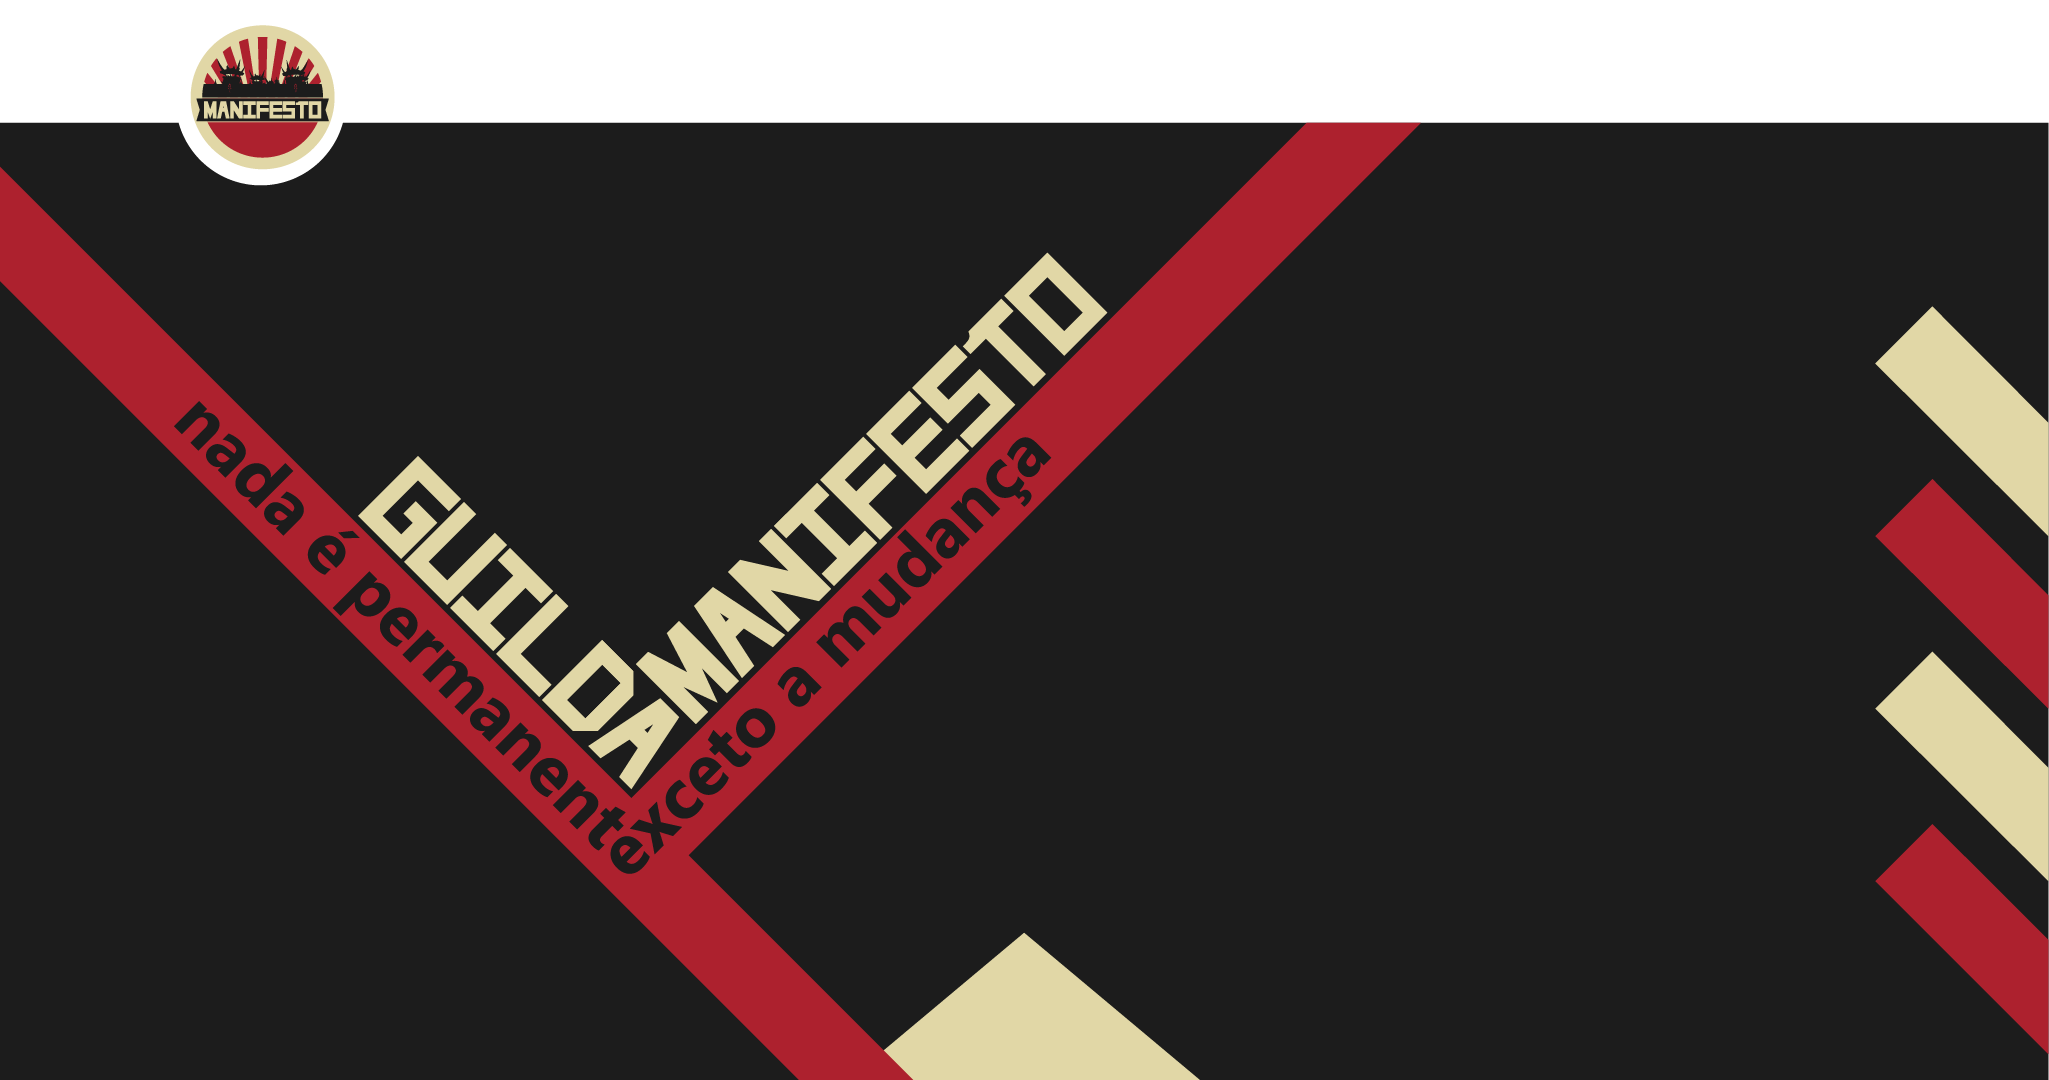
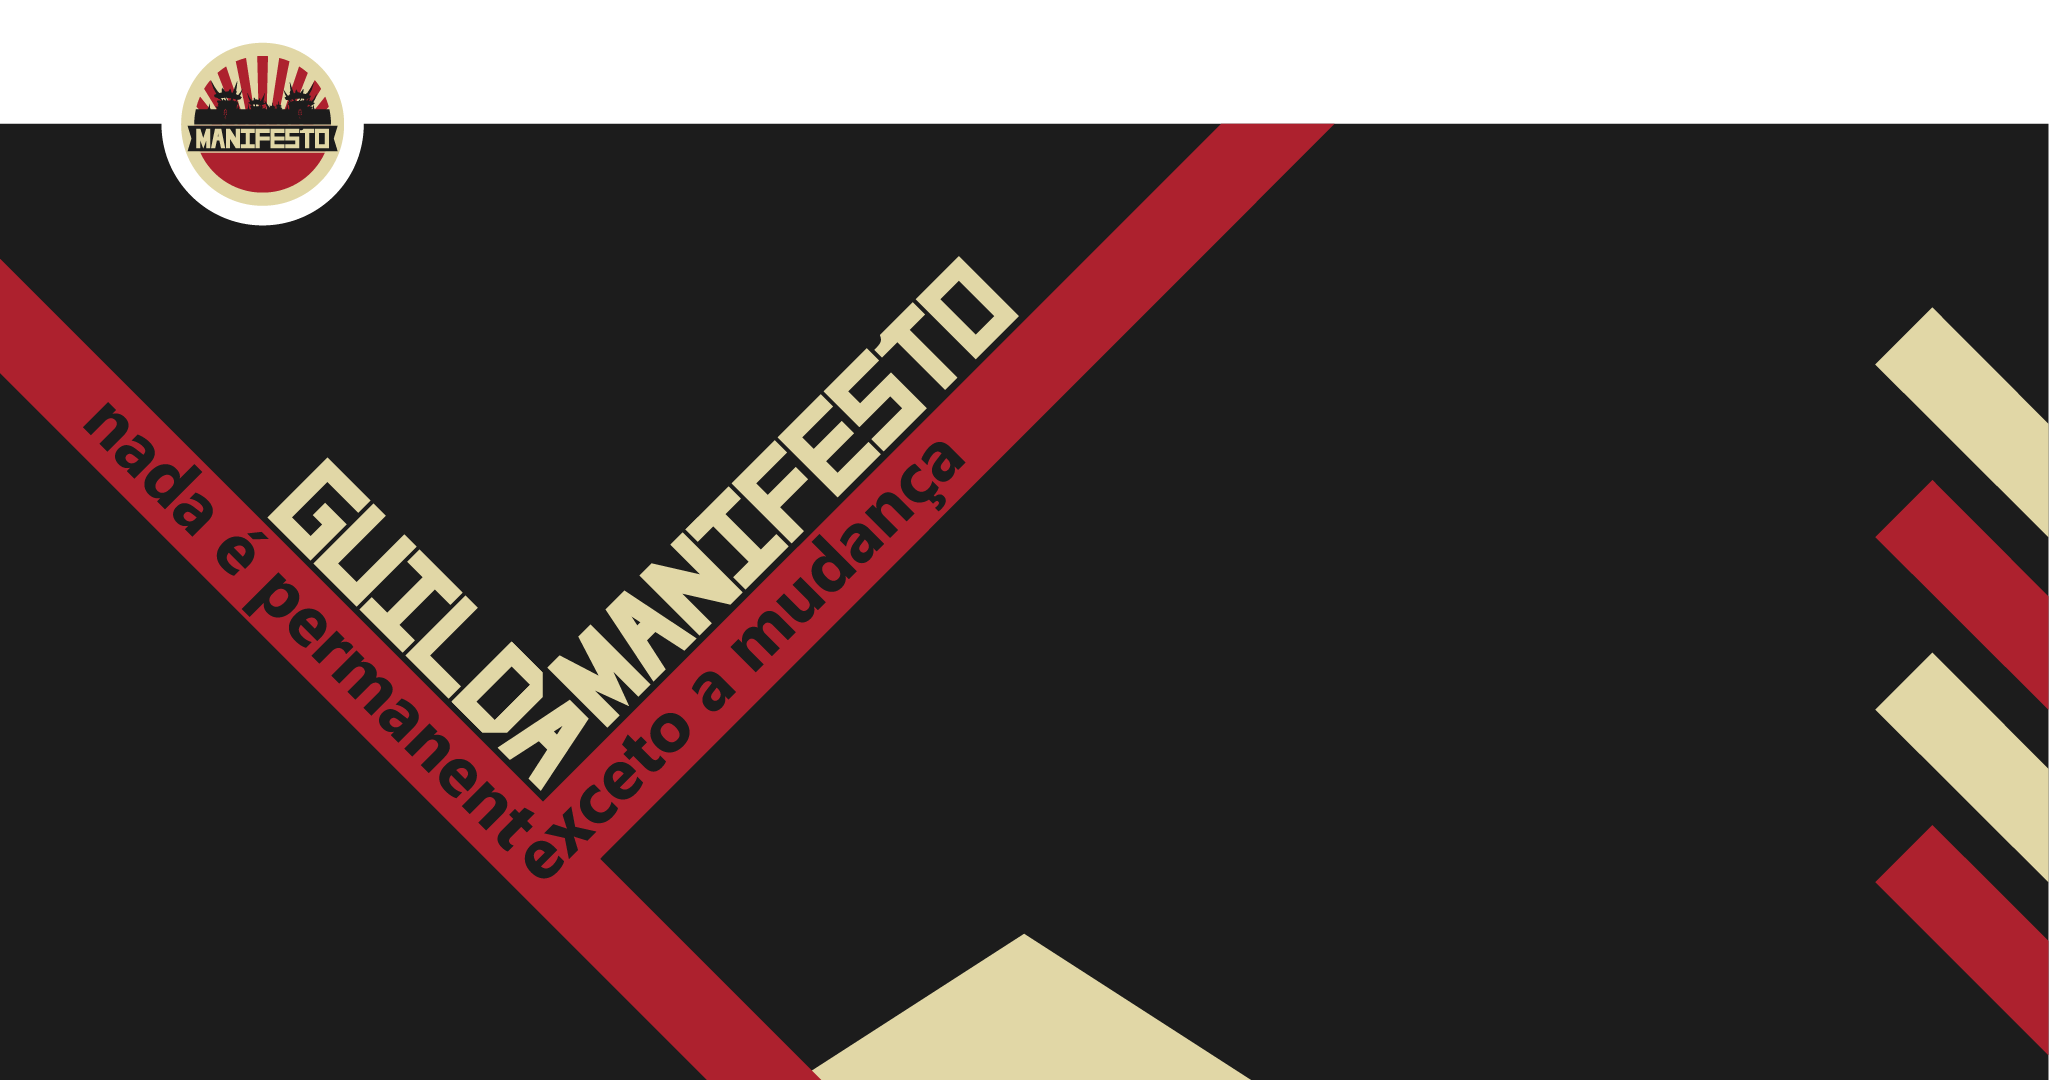
Alteração do hero

diff --git a/public/css/app.css b/public/css/app.css
@@ -15301,7 +15301,7 @@ html {
 .hero {
   height: calc(100%);
   /* Use "linear-gradient" to add a darken background effect to the image (photographer.jpg). This will make the text easier to read */
-  background-image: linear-gradient(to bottom, rgba(225, 215, 166, 0.1), rgba(17, 17, 17, 0.5)), url(/images/hero-manifesto.png?99a7ccb47e8d2977bb79953fbbbeb986);
+  background-image: linear-gradient(to bottom, rgba(225, 215, 166, 0.1), rgba(17, 17, 17, 0.5)), url(/images/hero-manifesto.png?4066d0205e20510ec5e79843152cf259);
   background-size: cover;
   position: relative;
 }
